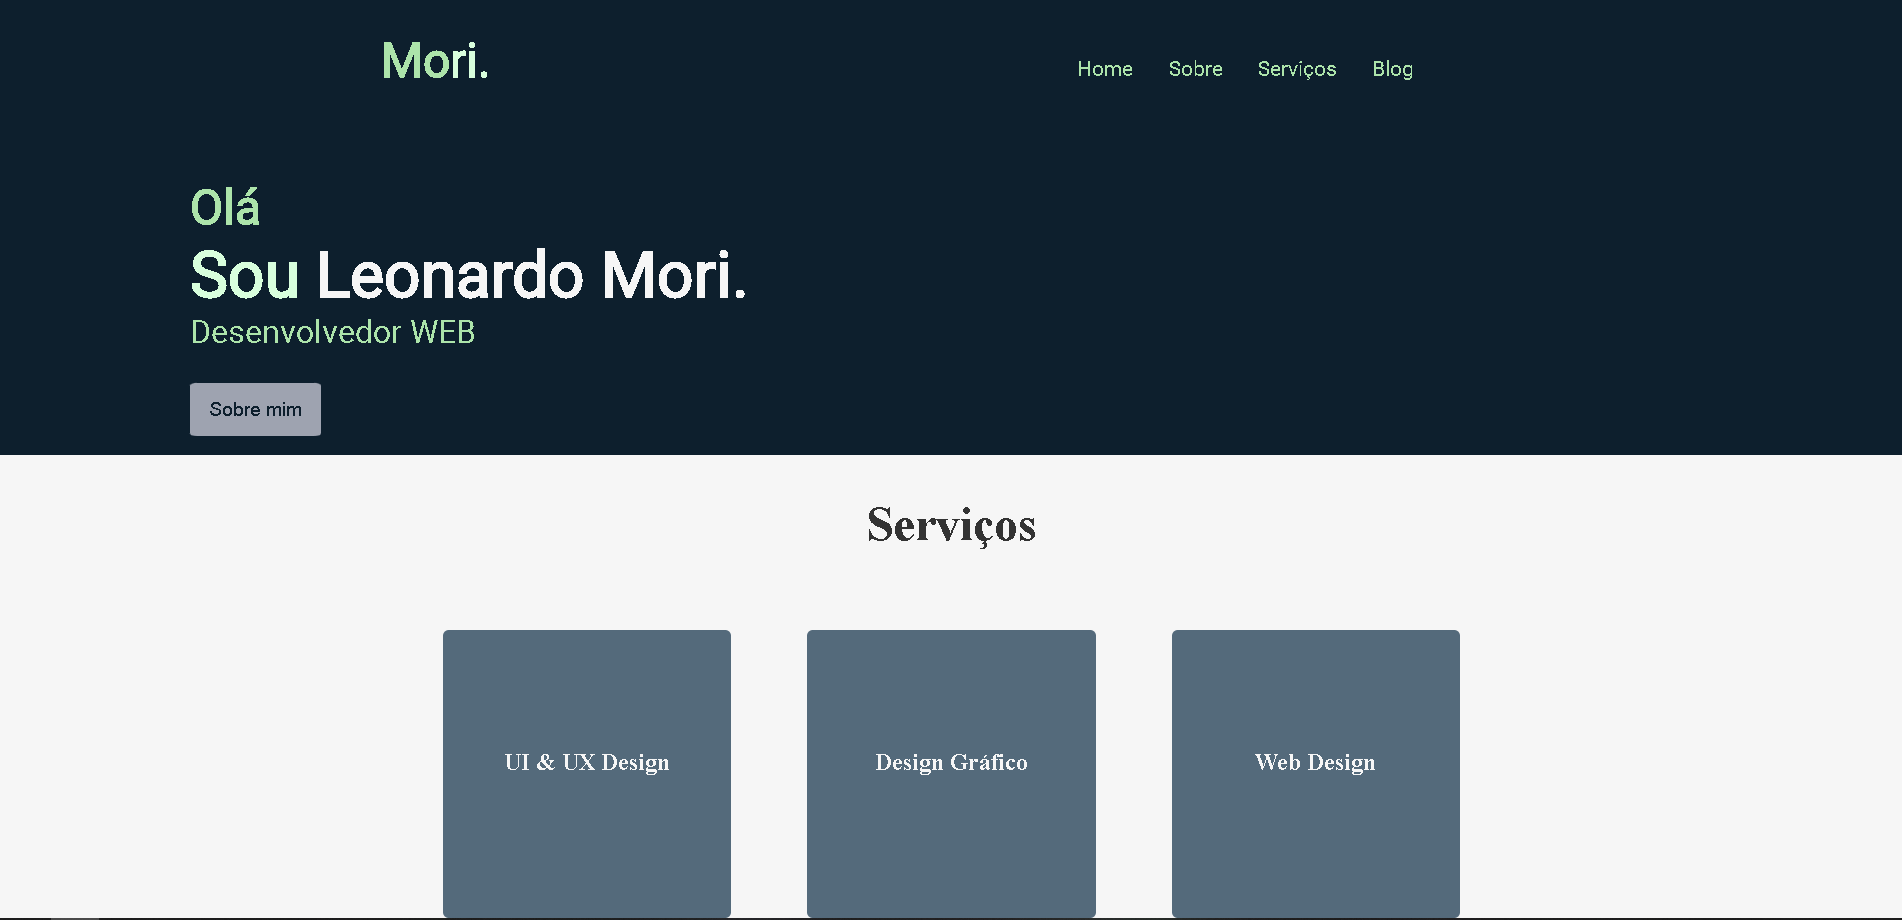
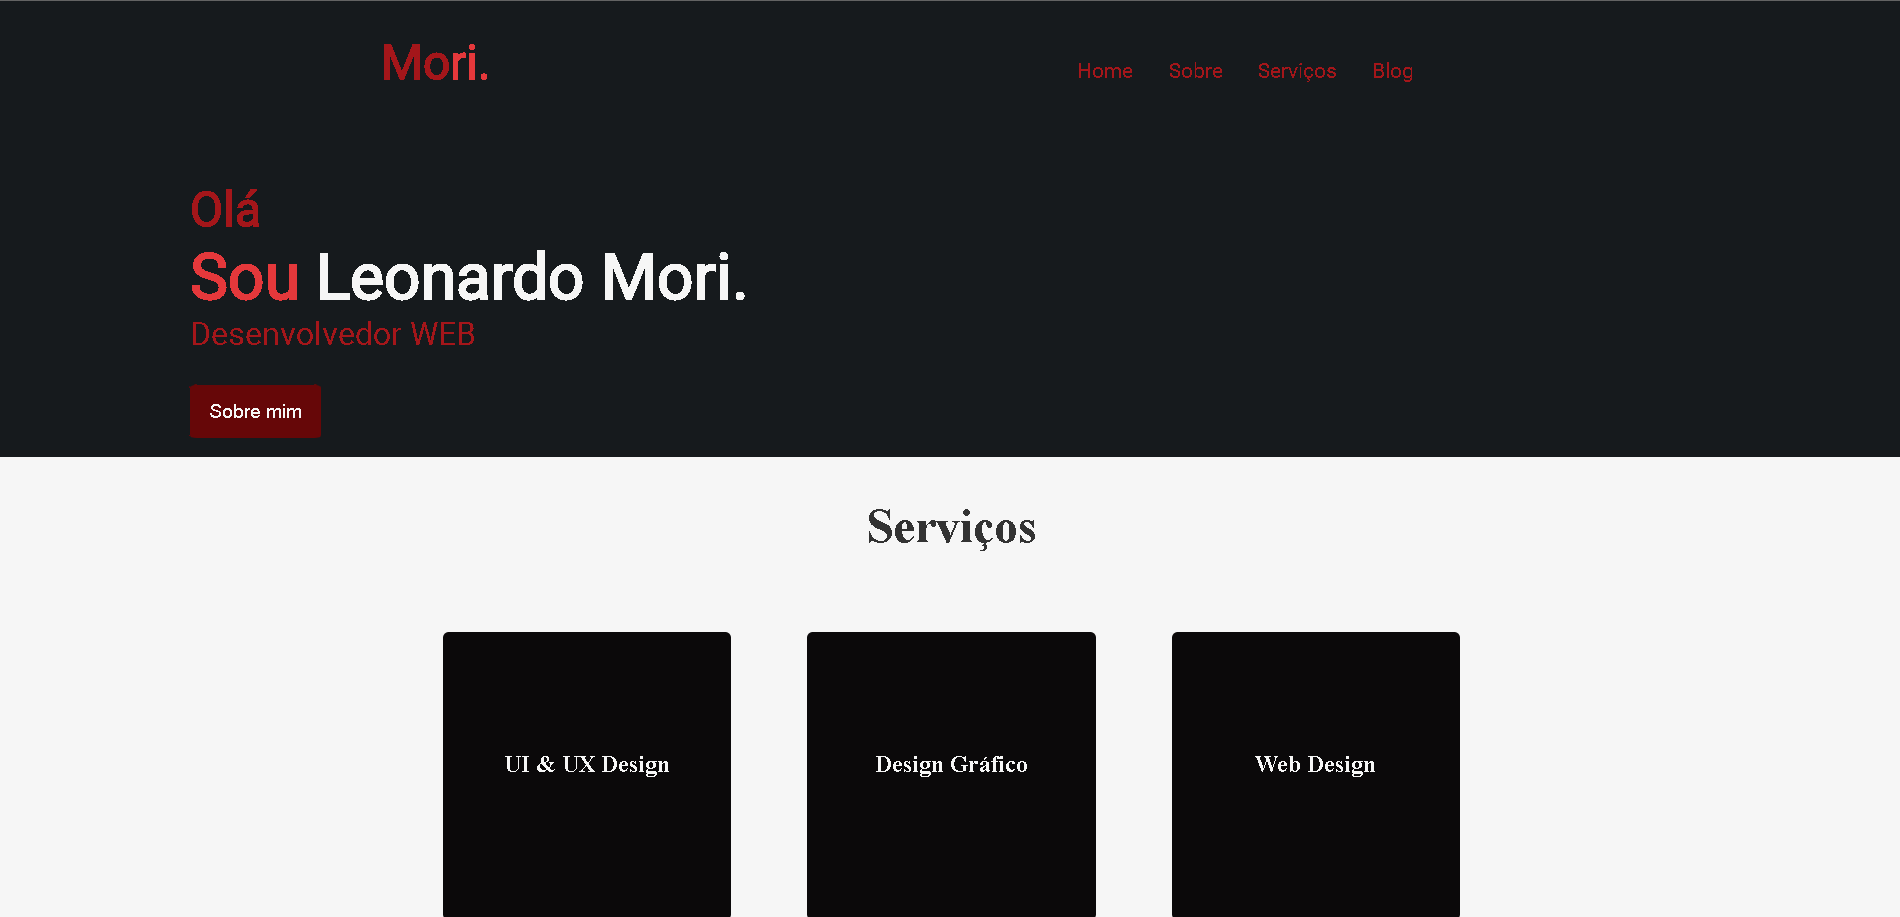
Color change to red and black, change on og-image.

diff --git a/Style/Style.css b/Style/Style.css
@@ -1,12 +1,12 @@
 :root{
     --fonte-geral: 'Roboto', sans-serif;
-    --cor-texto-geral: #ACE4AA;
+    --cor-texto-geral: #A4161A;
     --fonte-menu:'Raleway', sans-serif;
     --fonte-rodapé:'Inconsolata', monospace;
-    --cor-header: #0D1F2D;
-    --cor-rodape: #546A7B;
-    --cor-fundo-geral: #9EA3B0;
-    --cor-texto-hover: #D8FFDD;
+    --cor-header: #161A1D;
+    --cor-rodape: #0B090A;
+    --cor-fundo-geral: #660708;
+    --cor-texto-hover: #E5383B;
     --cor-branca: #f6f6f6;
     --cor-preto: #333;
 
@@ -174,7 +174,7 @@ main button{
     padding-right: 5%;
     padding-bottom: 4%;
     background-color: var(--cor-fundo-geral);
-    color: var(--cor-header);
+    color: var(--cor-branca);
     transition: all 0.3s ease;
     margin-bottom: 5%;
     cursor: pointer;
@@ -291,7 +291,7 @@ article{
 
 #uibox:hover p{
     display: block;
-    color: var(--cor-header);
+    color: var(--cor-branca);
 }
 
 #graphbox:hover{
@@ -302,7 +302,7 @@ article{
 
 #graphbox:hover p{
     display: block;
-    color: var(--cor-header);
+    color: var(--cor-branca);
 }
 
 #webbox:hover{
@@ -313,7 +313,7 @@ article{
 
 #webbox:hover p{
     display: block;
-    color: var(--cor-header);
+    color: var(--cor-branca);
 }
 
 .portifolio{
@@ -414,7 +414,7 @@ article{
     padding-right: 5%;
     padding-bottom: 4%;
     background-color: var(--cor-fundo-geral);
-    color: var(--cor-header);
+    color: var(--cor-branca);
     transition: all 0.3s ease;
     margin-bottom: 1%;
     cursor: pointer;
@@ -661,7 +661,5 @@ footer p{
     footer p{
         font-size: 2em;
     }
-
-
 
 }
